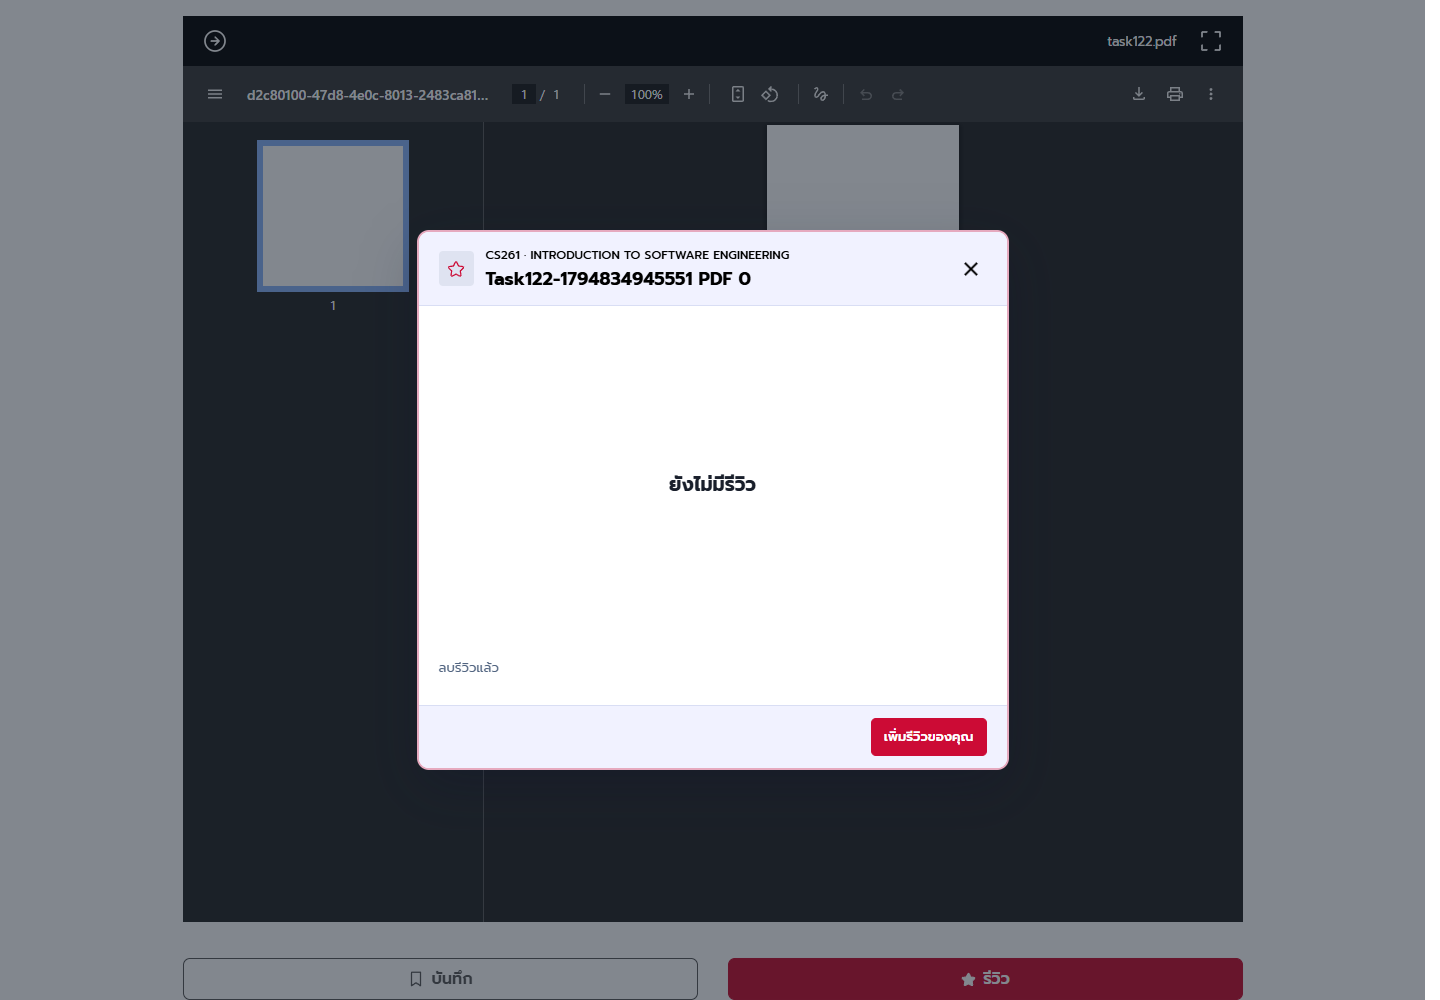
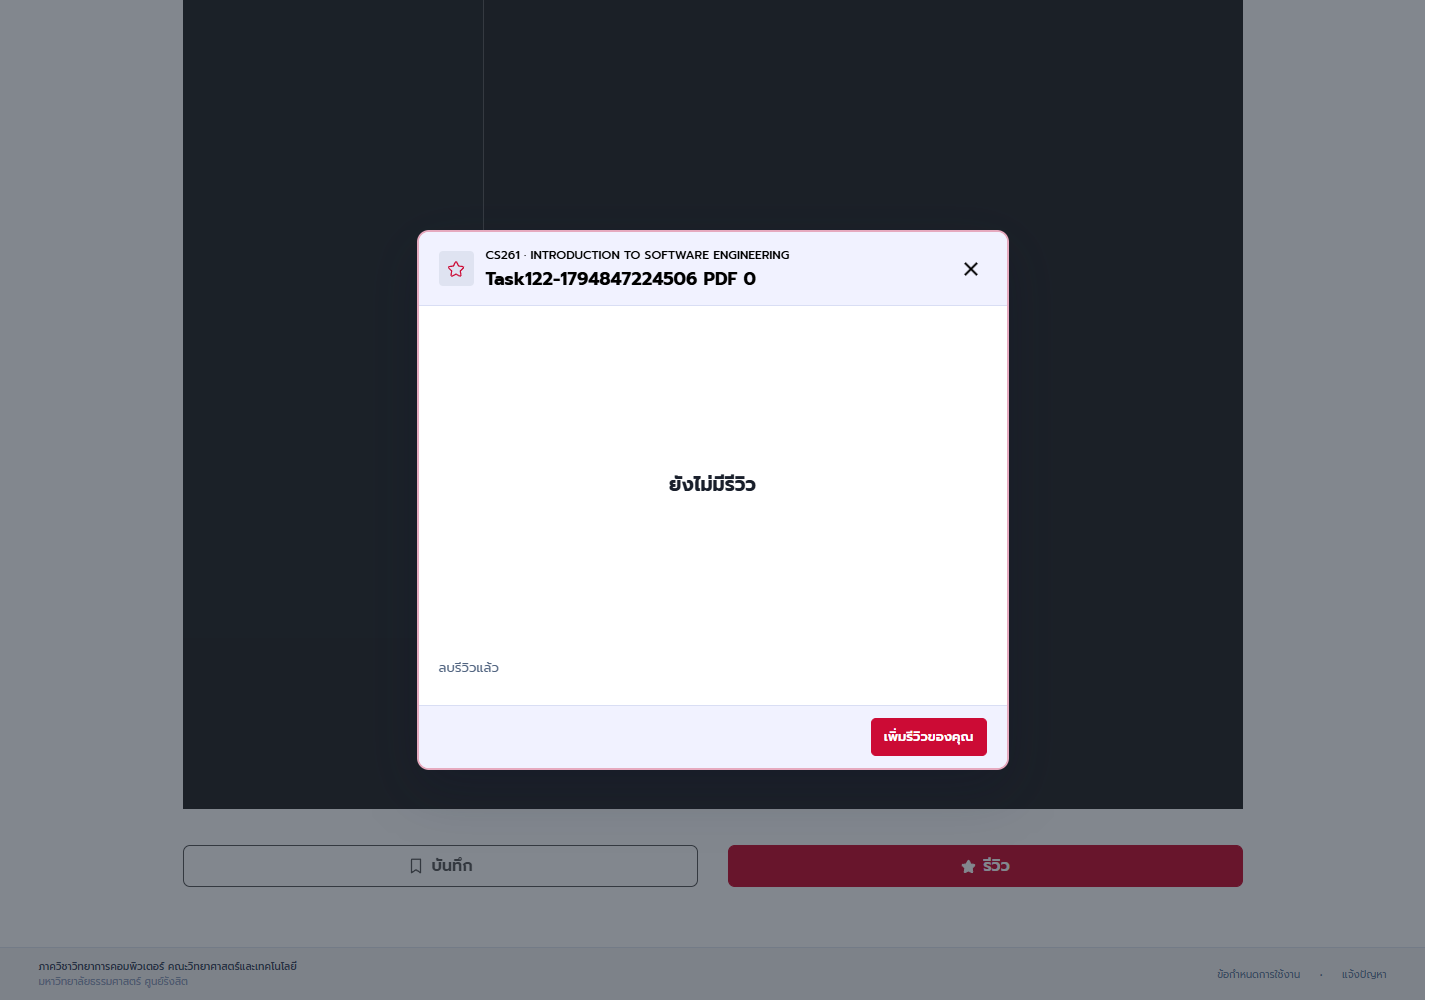
docs(task122): refresh failed-update UI evidence after review

diff --git a/docs/U8/testing/task122-u8-docker-integration.md b/docs/U8/testing/task122-u8-docker-integration.md
@@ -2,7 +2,7 @@
 
 ทดสอบการดู เพิ่ม แก้ไข และลบรีวิวของ Guide กับสรุป PDF ผ่านหน้าเว็บจริงแล้ว โดยใช้ Express proxy, FastAPI, SQL Server และ PDF volume จาก Compose ของโครงการเดิม การยืนยันตัวตนใช้ **TU mock** ไม่ได้เรียก TU จริง
 
-วันที่ทดสอบ 16 พฤศจิกายน 2569 ใช้ source ของ `sprint2` ที่ `a646cdba46ed6ba27232e7400f97aeefa05fcd8a` ซึ่งรวม Backend U6/U8 และ Frontend U8 แล้ว พร้อมชุดทดสอบและค่าตั้งของ Task122 ที่ commit `afd5bed` ผลรอบสุดท้ายบันทึก SHA เต็มและรุ่น browser/Docker/SQL Server ไว้ใน [results.json](../assets/task122/results.json)
+วันที่ทดสอบ 16 พฤศจิกายน 2569 ใช้ source ของ `sprint2` ที่ `a646cdba46ed6ba27232e7400f97aeefa05fcd8a` ซึ่งรวม Backend U6/U8 และ Frontend U8 แล้ว รันซ้ำหลังแก้ตาม review ที่ commit `f2e2105` ผลรอบสุดท้ายบันทึก SHA เต็มและรุ่น browser/Docker/SQL Server ไว้ใน [results.json](../assets/task122/results.json)
 
 ## ผลจากระบบจริง
 
@@ -15,7 +15,7 @@
 | ตรวจข้อมูล | API ปฏิเสธดาวทศนิยมและข้อความ emoji 2,001 code points ด้วย 422 ข้อมูลเดิมไม่เปลี่ยน |
 | ตรวจสิทธิ์ | ไม่มี token ได้ 401 รีวิวงานตนเองได้ 403 เพิ่มซ้ำได้ 409 อีกบัญชีแก้หรือลบรีวิวไม่ได้ ได้ 403 |
 | SQL ล้มเหลว | Trigger ที่จำกัดเฉพาะ target ทดสอบปฏิเสธ INSERT/UPDATE/DELETE จริง ได้ 503 ไม่มีรีวิวใหม่เมื่อเพิ่มล้มเหลว และคะแนน/ข้อความเดิมยังอยู่เมื่อแก้หรือลบล้มเหลว |
-| หน้าเว็บเมื่อ SQL ล้มเหลว | ส่งแก้ไขผ่านฟอร์มแล้วได้ 503 หน้าแจ้งข้อผิดพลาดและอ่านสถานะล่าสุดกลับมา SQL ยังคงข้อมูลเดิม |
+| หน้าเว็บเมื่อ SQL ล้มเหลว | ส่งแก้ไขผ่านฟอร์มแล้วได้ 503 ตรวจว่า error message มองเห็นจริงและตรงข้อความจาก API มี GET รีวิวของ target นั้นหลัง PUT ล้มเหลว ได้ 200 พร้อม review ID เดิม 4 ดาว/ข้อความ “แก้ไขแล้ว” หน้าแจ้งว่าโหลดข้อมูลล่าสุดแล้ว draft 1 ดาว/ข้อความ “ต้องไม่ถูกบันทึก” ยังคงอยู่ เมื่อยกเลิกฟอร์มเห็นรีวิวเดิม 4 ดาว/ข้อความเดิมบนหน้าเว็บ และ SQL ยังคงค่าเดิม ตรวจแยก Guide/PDF |
 | ลบรีวิว | กดยกเลิกลบแล้วข้อมูลยังอยู่ กดยืนยันได้ 204 และตรวจว่าแถว SQL หาย รีวิวของอีกบัญชีบนผลงานอีกชิ้นยังเหมือนเดิม |
 | ลบแล้วสร้างใหม่และคำขอพร้อมกัน | หลังลบ ส่ง POST พร้อมกันสองคำขอ ได้หนึ่ง 201 และหนึ่ง 409 เกิดรีวิวเดียว ใช้ review ID ใหม่ |
 | PDF จริง | เผยแพร่ PDF ที่ parser อ่านได้และโหลดผ่าน API หลังทดสอบรีวิว ได้ SHA-256 ตรงไฟล์ตั้งต้น ตรวจไฟล์ใน volume ด้วย checksum อีกชั้น |
@@ -28,6 +28,7 @@
 
 - Guide: [เพิ่ม](../assets/task122/guide-01-create.png), [แก้ไข](../assets/task122/guide-02-update.png), [SQL ปฏิเสธการแก้](../assets/task122/guide-03-sql-failure.png), [ลบแล้ว](../assets/task122/guide-04-delete.png)
 - PDF: [เพิ่ม](../assets/task122/summary-01-create.png), [แก้ไข](../assets/task122/summary-02-update.png), [SQL ปฏิเสธการแก้](../assets/task122/summary-03-sql-failure.png), [ลบแล้ว](../assets/task122/summary-04-delete.png)
+- หลังออกจากฟอร์มที่ SQL ปฏิเสธการแก้ แสดงรีวิวเดิม: [Guide](../assets/task122/guide-03a-review-after-failure.png), [PDF](../assets/task122/summary-03a-review-after-failure.png)
 - [ผลแบบ JSON รวม SHA/environment/auth mode และ ID ข้อมูลทดสอบ](../assets/task122/results.json)
 - [สคริปต์ browser และคำขอที่รันซ้ำได้](../../../scripts/task122-u8-browser.cjs)
 
@@ -75,6 +76,8 @@ node scripts/task122-u8-browser.cjs
 ถ้าใช้ Edge ให้ตั้ง `$env:TASK122_BROWSER = 'msedge'` ก่อนรัน ผลสำเร็จต้อง exit 0 และ `results.json` มี `passed: true` พร้อมผล cleanup การรันซ้ำใช้ชุดเดิมได้โดยไม่เรียก `init_reviews` ซ้ำ สคริปต์จะสร้างและลบเฉพาะผลงานของรอบนั้น ไม่บันทึก token หรือรหัสผ่าน SQL ลงหลักฐาน
 
 ## การคืนข้อมูลและสถานะส่งตรวจ
+
+รอบแก้ตาม Requested changes ของ PR #132 เพิ่ม assertions ที่เดิมตรวจเพียงหยุด busy กับ SQL ยังไม่เปลี่ยน โดยรอ response GET จริงหลัง PUT 503 ตรวจ payload ที่อ่านใหม่ ตรวจ error ที่มองเห็นและข้อความโหลดข้อมูลล่าสุด รวมถึงตรวจรีวิวที่แสดงหลังยกเลิกฟอร์ม พร้อมเก็บรายละเอียดผลใน JSON ทั้ง Guide/PDF เพิ่มการรอ PDF viewer พร้อมและโฟกัสปุ่มก่อนเปิดรีวิว หลังรอบแรกหยุดที่จังหวะเปิดหน้าต่าง PDF แล้วรันทั้งชุดซ้ำผ่าน ไม่ได้แก้โค้ดแอปเพื่อให้ผ่าน
 
 สคริปต์ใช้ `finally` ลบ trigger แล้วลบผลงานที่ตัวเองสร้างผ่าน API เจ้าของ จากนั้นเทียบ baseline หากหยุด process หรือปิด Docker กลางทาง ให้ใช้ ID ในผลรอบนั้นตรวจชื่อและเจ้าของก่อนคืนเฉพาะ fixture ห้ามลบข้อมูลทั้งตาราง ผลรอบที่ cleanup ไม่ผ่านยังถือว่ารันไม่สำเร็จ
 
